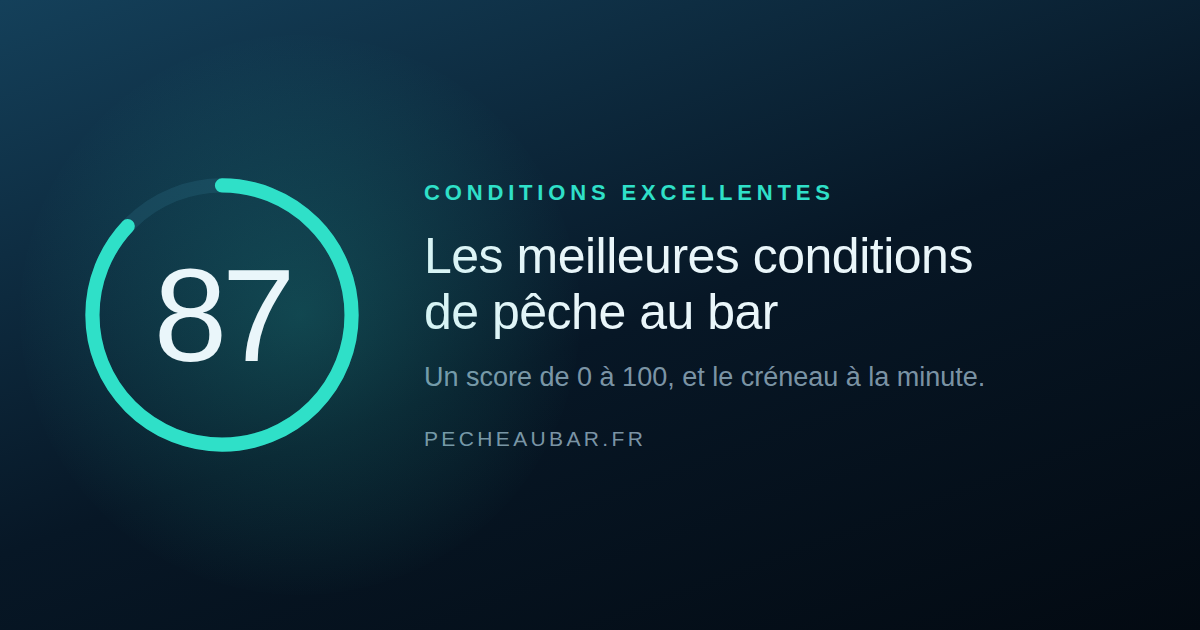
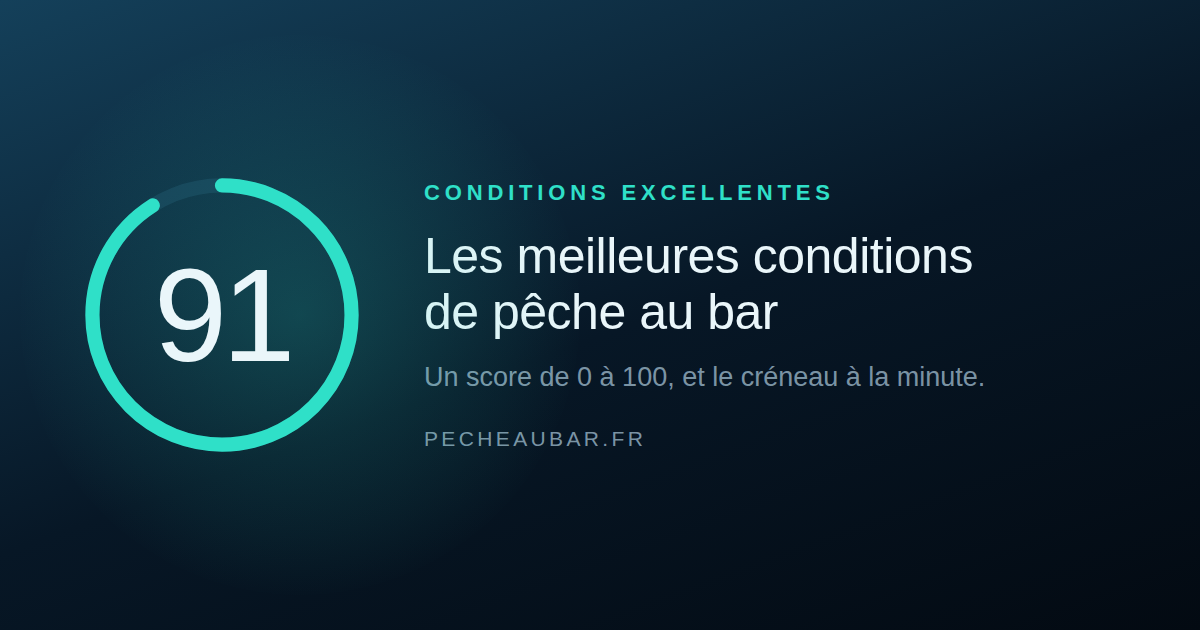
Put the share card on the right side of the 90 line
og-image.png read 87 in turquoise under "CONDITIONS EXCELLENTES", the
same contradiction the hero cards had: getVerdict() reserves EXCELLENT
for 90 and above, and accentForScore() only returns turquoise there.

The hero cards resolved it by keeping the score and going amber. The
share card resolves it the other way, deliberately: it is the site's
face on every link ever posted, its headline already promises the best
conditions, and the number in it is illustration rather than a reading
of anything. So it becomes 91 and stays turquoise — arc offset
recomputed to match — and the artwork keeps the tone it was drawn in.

og:image:alt on all seven pages follows the image, since one file backs
every page. The app icon is untouched: it carries no verdict, so its
dial is a mark rather than a claim, and re-rendering it produced
byte-identical PNGs.

Claude-Session: https://claude.ai/code/session_01R86yNakUJkWNGJJPcEkx9r

Changed region(s): [[0.1233, 0.4222, 0.2467, 0.573], [0.1233, 0.3016, 0.1542, 0.3317], [0.0925, 0.3317, 0.1233, 0.3619]]

diff --git a/scripts/social-assets.html b/scripts/social-assets.html
@@ -154,13 +154,17 @@
       <div class="ring">
         <svg viewBox="0 0 320 320">
           <circle cx="160" cy="160" r="146" fill="none" stroke="rgba(79,182,217,0.12)" stroke-width="16" />
+          <!-- 91, so the turquoise arc and the kicker below are both what the
+               app would actually render: getVerdict() reserves EXCELLENT for
+               90 and above, and accentForScore() only returns turquoise there
+               — under 90 both go amber. Offset = 917.3 × (1 − 91/100). -->
           <circle
             cx="160" cy="160" r="146" fill="none" stroke="#2FE0C8" stroke-width="16"
-            stroke-linecap="round" stroke-dasharray="917.3" stroke-dashoffset="119.2"
+            stroke-linecap="round" stroke-dasharray="917.3" stroke-dashoffset="82.6"
             transform="rotate(-90 160 160)"
           />
         </svg>
-        <div class="value">87</div>
+        <div class="value">91</div>
       </div>
 
       <div class="copy">

diff --git a/public/landing.html b/public/landing.html
@@ -64,7 +64,7 @@
     <meta property="og:image:height" content="630" />
     <meta
       property="og:image:alt"
-      content="Score de 87 sur 100, conditions excellentes pour la pêche au bar"
+      content="Score de 91 sur 100, conditions excellentes pour la pêche au bar"
     />
 
     <meta name="twitter:card" content="summary_large_image" />

diff --git a/public/peche-bar-boulogne-sur-mer.html b/public/peche-bar-boulogne-sur-mer.html
@@ -85,7 +85,7 @@
     <meta property="og:image:height" content="630" />
     <meta
       property="og:image:alt"
-      content="Score de 87 sur 100, conditions excellentes pour la pêche au bar"
+      content="Score de 91 sur 100, conditions excellentes pour la pêche au bar"
     />
 
     <meta name="twitter:card" content="summary_large_image" />

diff --git a/public/peche-bar-bretagne.html b/public/peche-bar-bretagne.html
@@ -80,7 +80,7 @@
     <meta property="og:image:height" content="630" />
     <meta
       property="og:image:alt"
-      content="Score de 87 sur 100, conditions excellentes pour la pêche au bar"
+      content="Score de 91 sur 100, conditions excellentes pour la pêche au bar"
     />
 
     <meta name="twitter:card" content="summary_large_image" />

diff --git a/public/peche-bar-calais.html b/public/peche-bar-calais.html
@@ -80,7 +80,7 @@
     <meta property="og:image:height" content="630" />
     <meta
       property="og:image:alt"
-      content="Score de 87 sur 100, conditions excellentes pour la pêche au bar"
+      content="Score de 91 sur 100, conditions excellentes pour la pêche au bar"
     />
 
     <meta name="twitter:card" content="summary_large_image" />

diff --git a/public/peche-bar-dunkerque.html b/public/peche-bar-dunkerque.html
@@ -72,7 +72,7 @@
     <meta property="og:image:height" content="630" />
     <meta
       property="og:image:alt"
-      content="Score de 87 sur 100, conditions excellentes pour la pêche au bar"
+      content="Score de 91 sur 100, conditions excellentes pour la pêche au bar"
     />
 
     <meta name="twitter:card" content="summary_large_image" />

diff --git a/public/peche-bar-normandie.html b/public/peche-bar-normandie.html
@@ -81,7 +81,7 @@
     <meta property="og:image:height" content="630" />
     <meta
       property="og:image:alt"
-      content="Score de 87 sur 100, conditions excellentes pour la pêche au bar"
+      content="Score de 91 sur 100, conditions excellentes pour la pêche au bar"
     />
 
     <meta name="twitter:card" content="summary_large_image" />

diff --git a/public/peche-bar-vendee.html b/public/peche-bar-vendee.html
@@ -81,7 +81,7 @@
     <meta property="og:image:height" content="630" />
     <meta
       property="og:image:alt"
-      content="Score de 87 sur 100, conditions excellentes pour la pêche au bar"
+      content="Score de 91 sur 100, conditions excellentes pour la pêche au bar"
     />
 
     <meta name="twitter:card" content="summary_large_image" />
